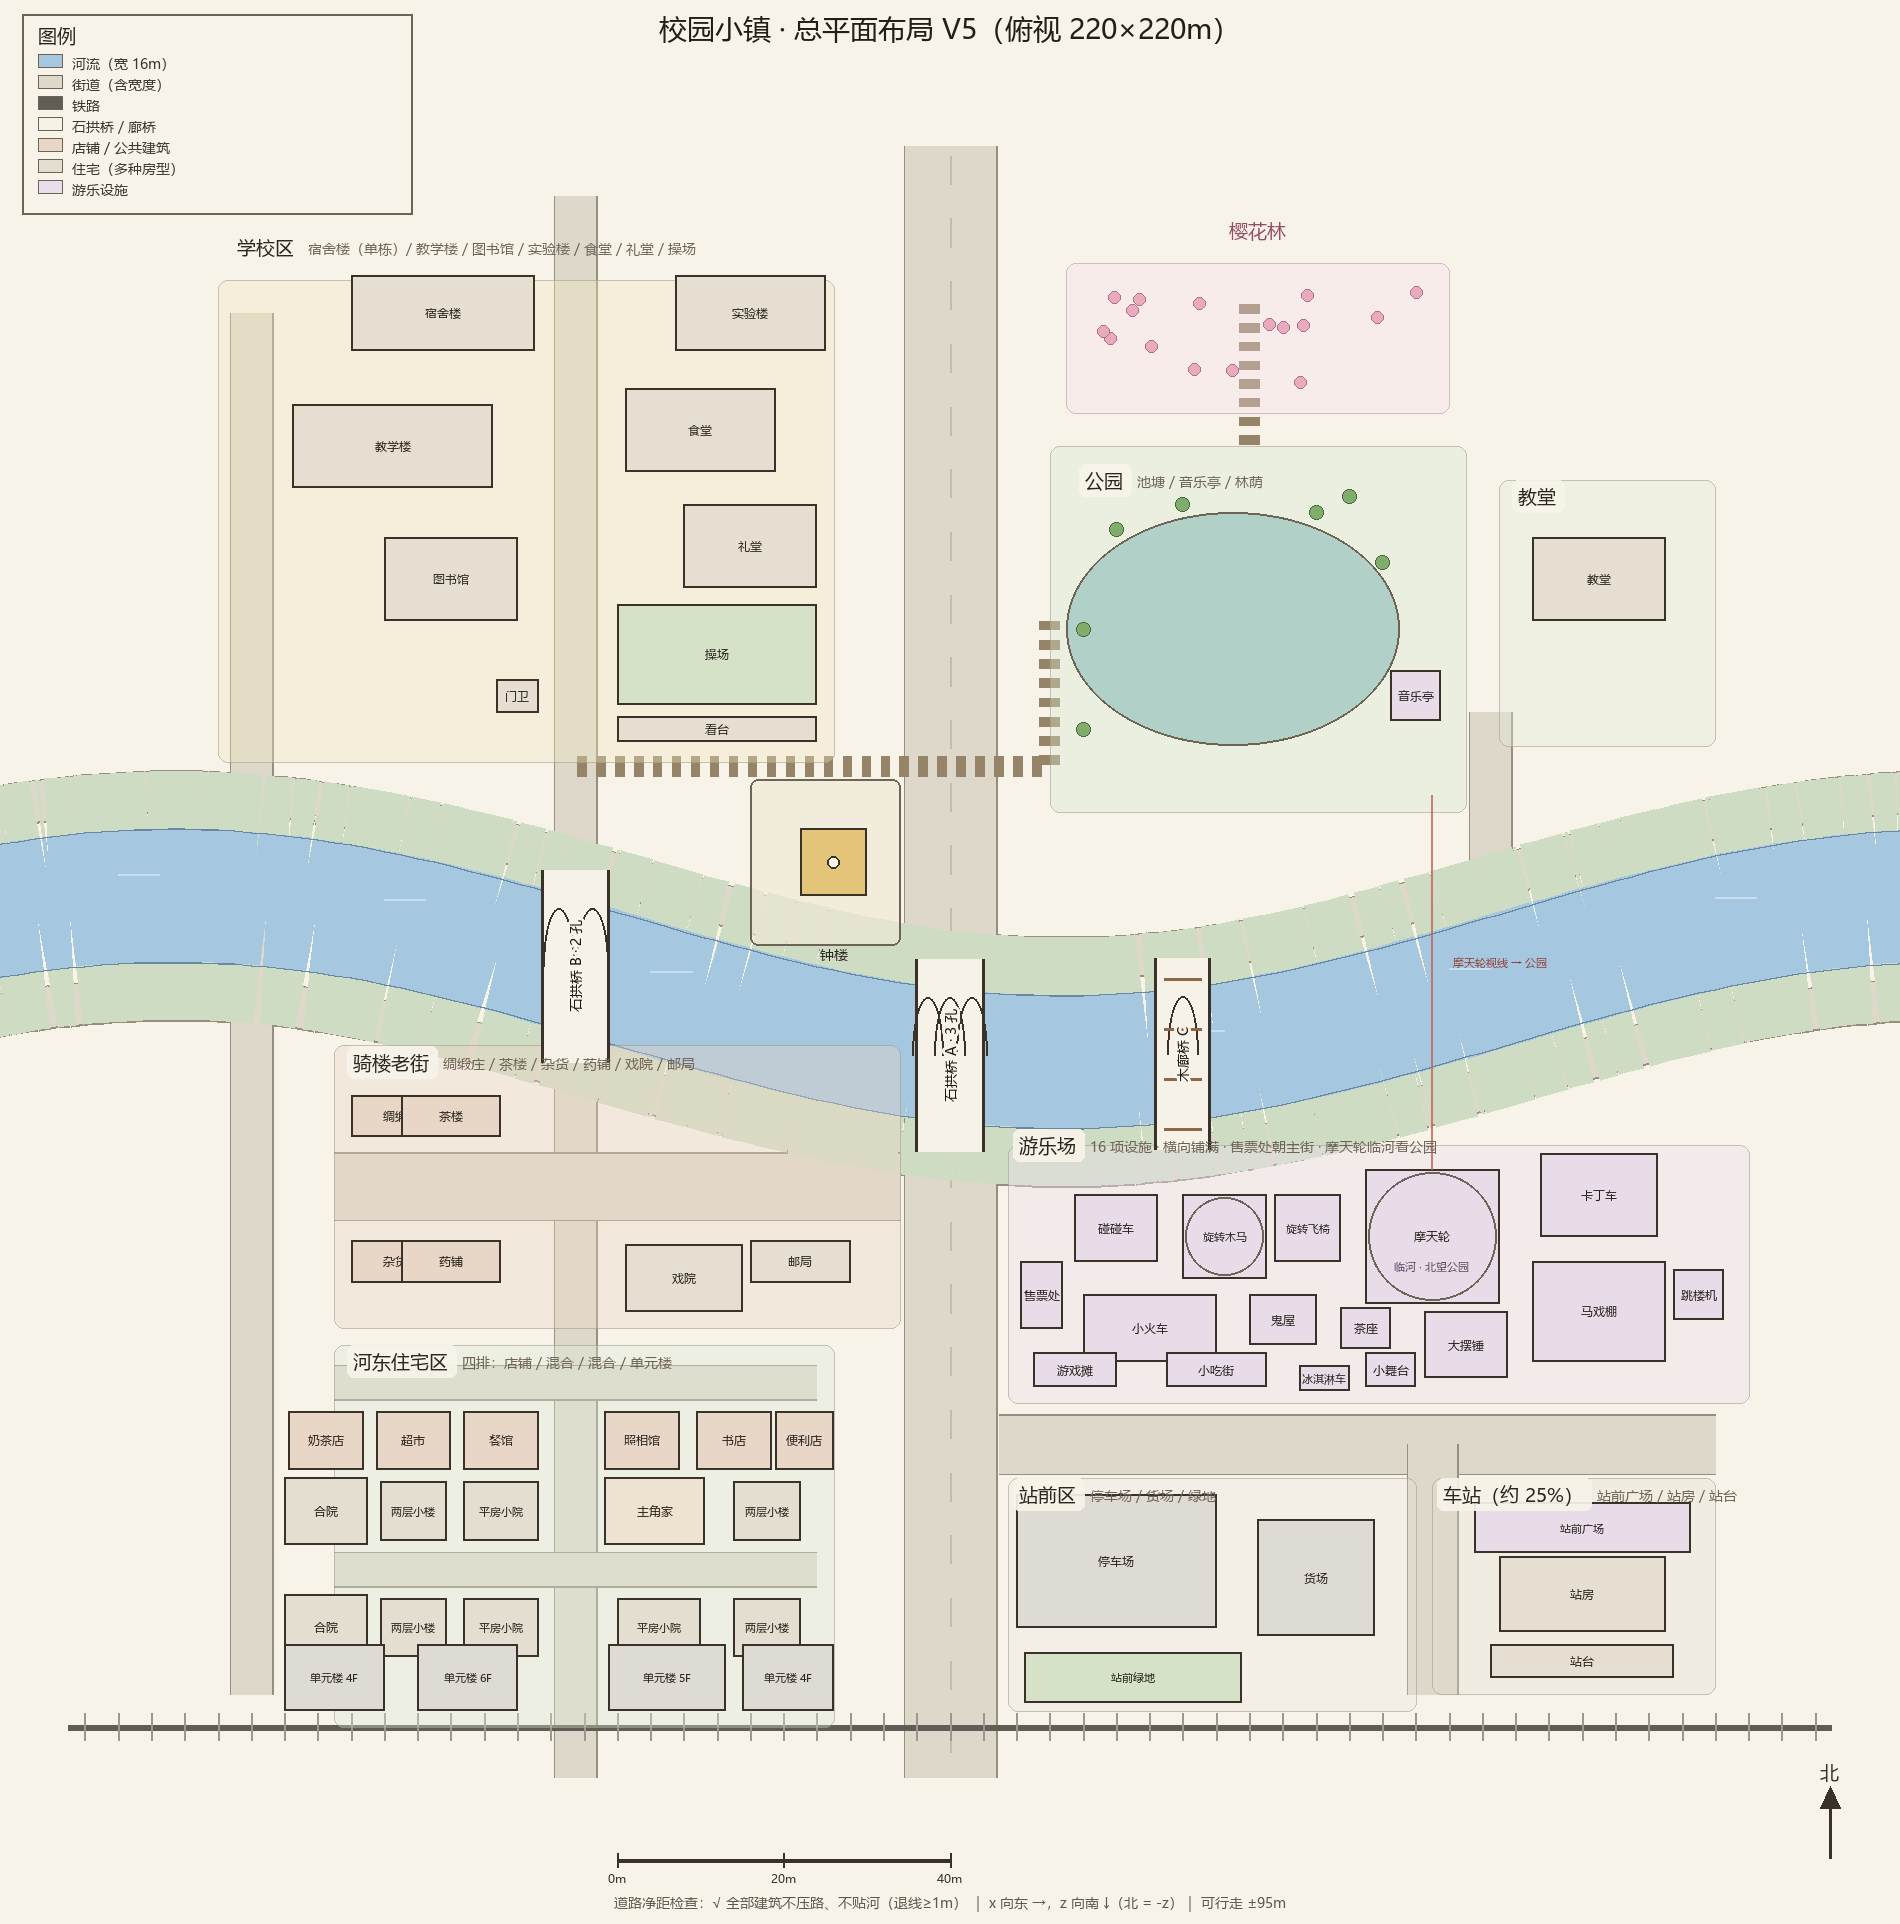
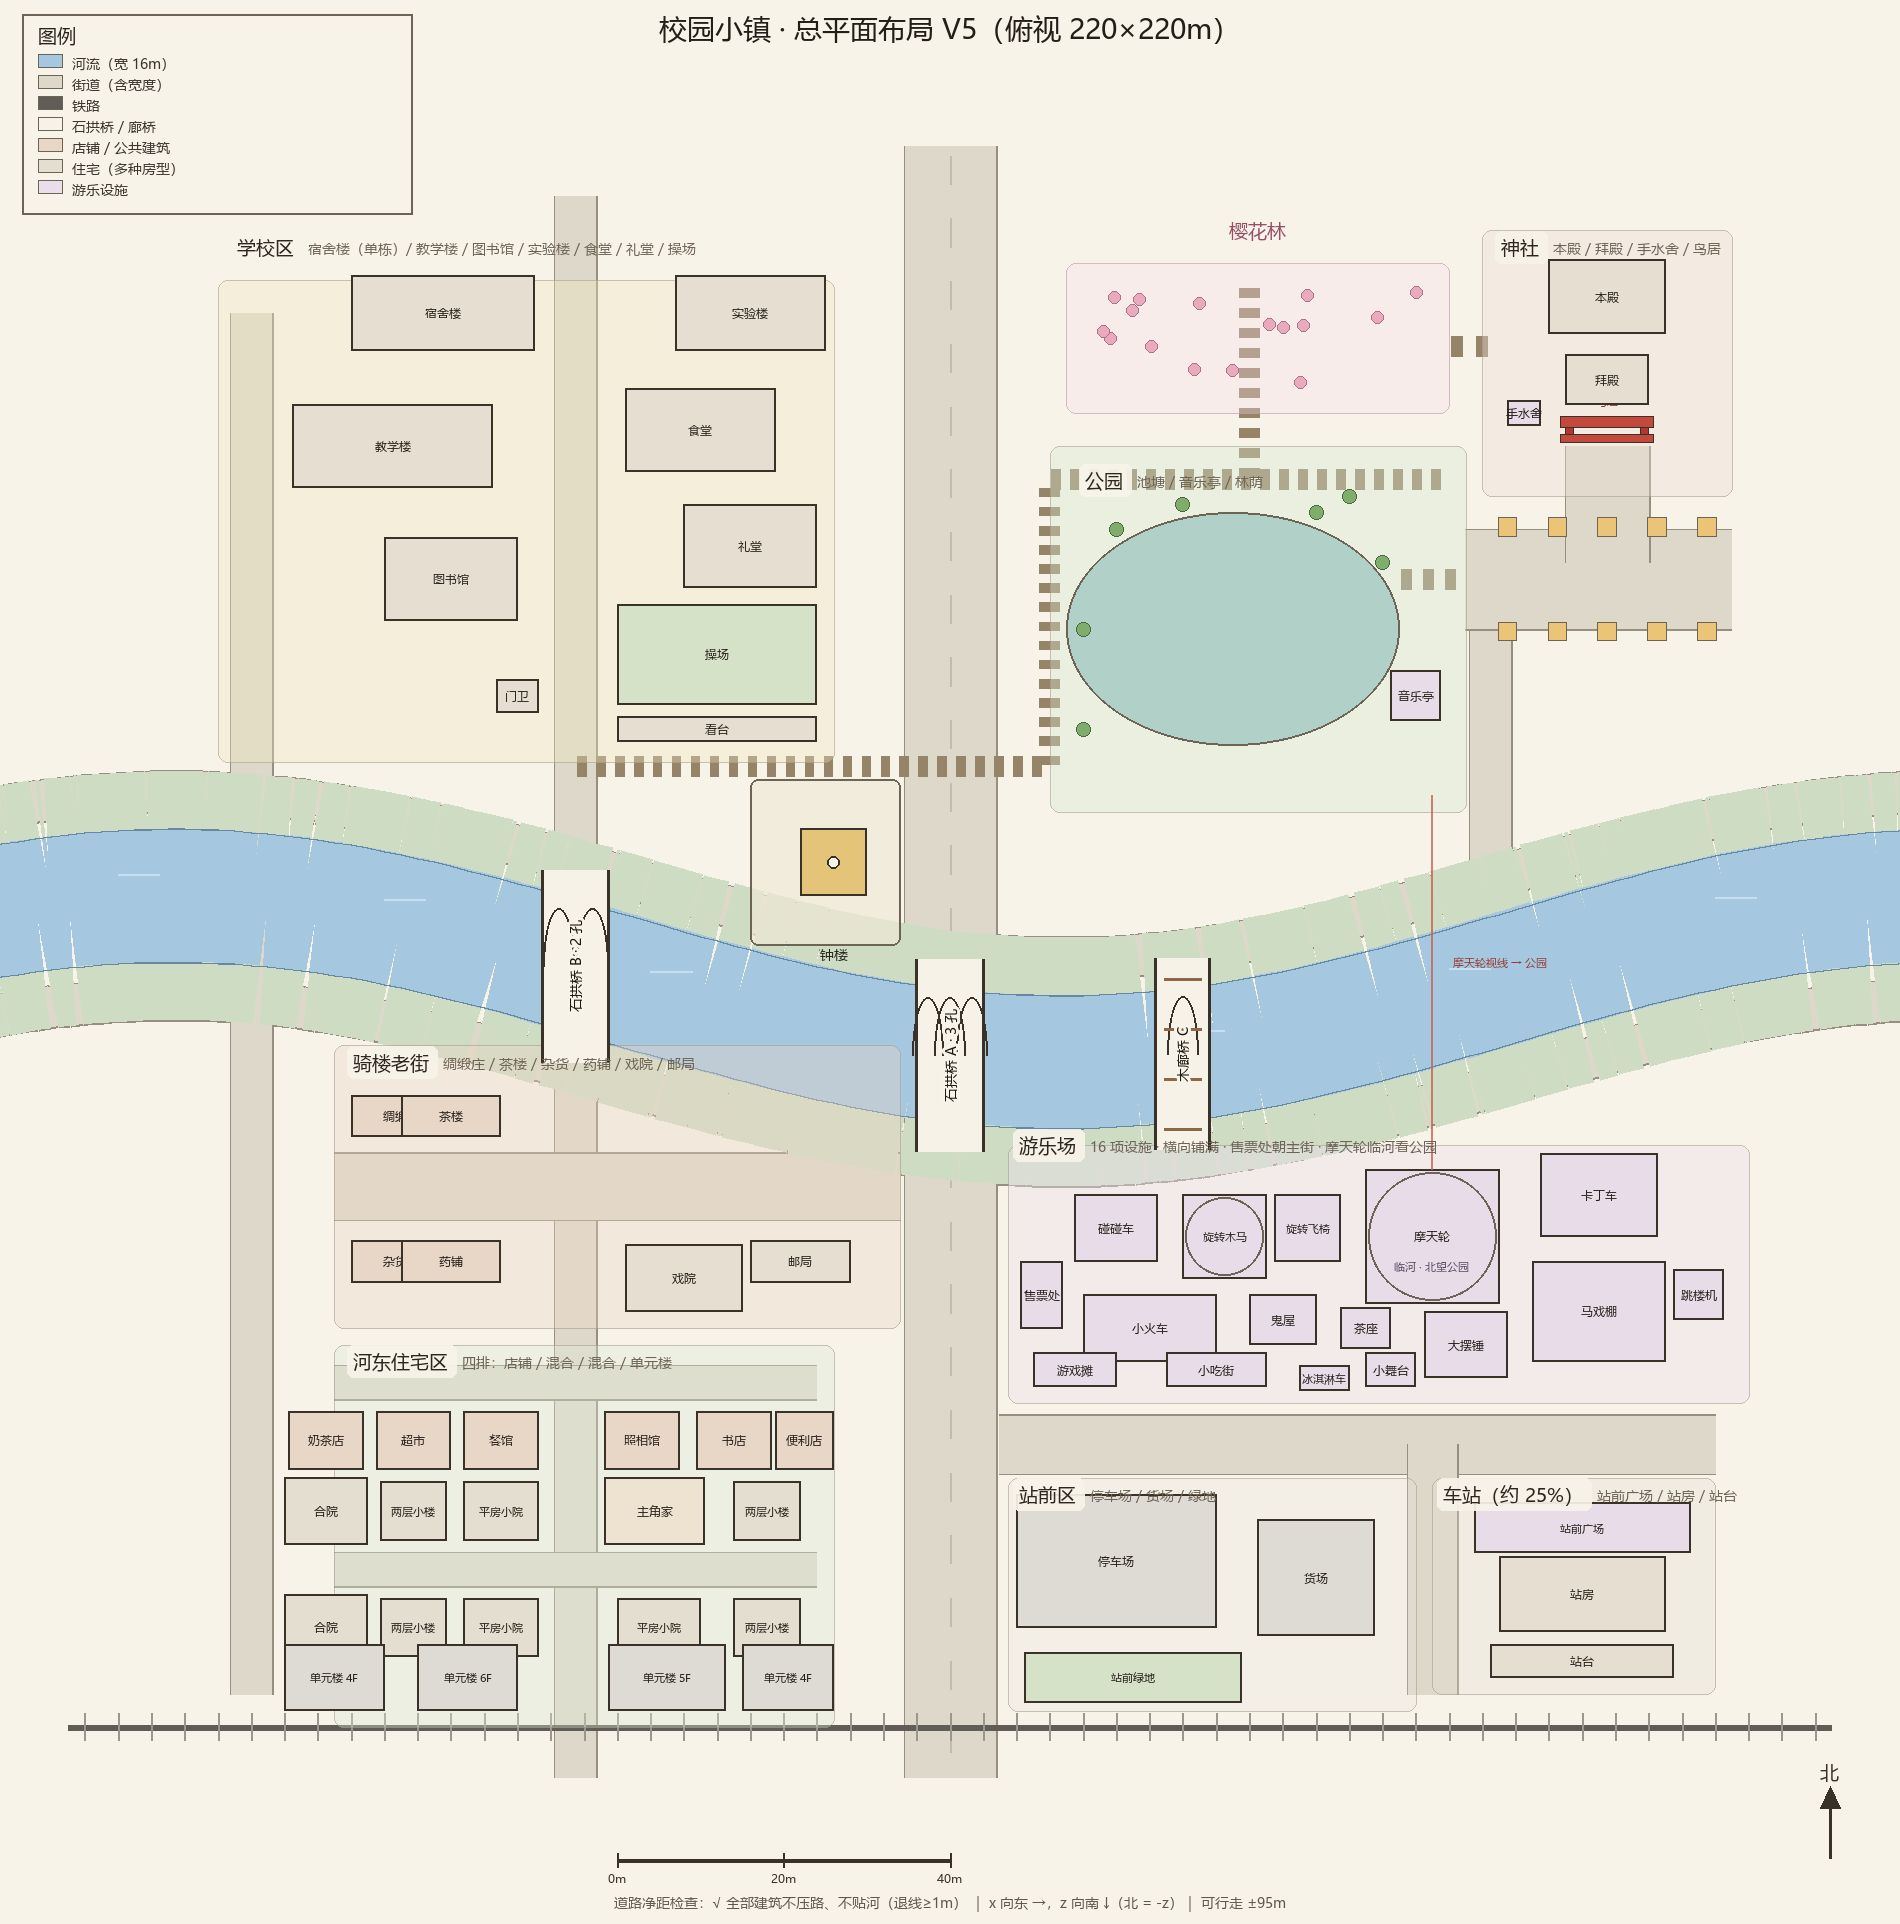
docs(设计): 教堂改日式神社 + 夏日祭参道/石阶 + 公园—神社步道成网
- 教堂替换为神社：本殿/拜殿/手水舍 + 参道口鸟居，位于樱花林右侧
- 神社下方 10m 宽石阶路直下；底部接 12m 宽「夏日祭参道」（z=-46，x 62~94），
  两侧各 5 个摊位，足够办夏日祭
- 公园联络路延长到参道（z -46~-10），形成「河滨路 → 参道 → 石阶 → 拜殿」主通道
- 步道成网：步道 A/B、公园北路、樱花林步道、神社连林道、参道连园道 ——
  公园⇄樱花林⇄神社⇄参道⇄校区全部连通
- 净距校验（建筑↔道路/步道/石阶 ≥1m、建筑↔河道 ≥16m）重跑：√ 全部通过

Changed region(s): [[0.7453, 0.1247, 0.9316, 0.3742], [0.6521, 0.1559, 0.6832, 0.2495], [0.5279, 0.2495, 0.5589, 0.3119]]

diff --git a/docs/18-小镇总平面布局.md b/docs/18-小镇总平面布局.md
@@ -17,12 +17,17 @@
 | 住宅中街 | z=73，x -74~-16 | 4m | 主角家门前 |
 | 车站街 | z=58，x 6~92 | 7m | 主街 → 车站（给游乐场让出约 8m 进深） |
 | 车站路 | x=58，z 58~88 | 6m | 游乐场与车站的分界路 |
-| 公园联络路 | x=65，z -30~-10 | 5m | 公园与教堂之间 |
+| 公园联络路 | x=65，z -46~-10 | 5m | 参道 → 河滨路（神社方向主通道） |
+| **夏日祭参道** | z=-46，x 62~94 | **12m** | 够摆两排摊位、办夏日祭；北接神社石阶，西接公园 |
+| 神社石阶 | x=79，z -62~-48 | 10m | 拜殿 → 参道（石阶路） |
 | 南北岸河滨路 | 沿河每侧 ±12.5m | 5m | 观景 + 连通两岸 |
 | 铁路 | z=92 | — | 含站台（站房 z=76） |
 | 步道 A | z=-23.5，x -45~12 | 3m | **校区 ⇄ 公园**（从中央街东侧直插公园西南） |
 | 步道 B | x=12，z -23.5~-42 | 3m | 公园西缘南北向，接池塘与音乐亭 |
-| 樱花林步道 | x=36，z -62~-80 | 3m | 公园 ⇄ 樱花林 |
+| 公园北路 | z=-58，x 12~60 | 3m | 公园北部东西向，串樱花林步道与神社方向 |
+| 樱花林步道 | x=36，z -58~-82 | 3m | 公园 ⇄ 樱花林 |
+| 神社连林道 | z=-74，x 60~66 | 3m | 樱花林 ⇄ 神社 |
+| 参道连园道 | z=-46，x 54~62 | 3m | 公园（池塘东侧）⇄ 夏日祭参道 |
 
 **校验规则（已写进绘图脚本，每次出图自动跑）**：
 - 每栋建筑到每条道路的净距 ≥ **1.0m**（退线）
@@ -43,8 +48,10 @@
 ### 樱花林（公园北侧，x 14~60，z -84~-66）
 46×18m 的樱花林，16 棵樱花树自由散布；北接园区外缘，南由步道接入公园
 
-### 教堂（东北角，x 66~92）
-红砖教堂（16×10）+ 尖塔
+### 神社（樱花林右侧，x 64~94，z -88~-56）
+- **本殿**（14×9）+ **拜殿**（10×6）+ **手水舍**（4×3）+ 参道口**鸟居**
+- 神社下方是 **石阶路**（10m 宽，z -62~-48），从拜殿前直下到夏日祭参道
+- 与樱花林之间有一条 **神社连林道**（z=-74）
 
 ### 骑楼老街（南岸西段，x -74~-6，z 10~44）
 - 北排（临河）：**绸缎庄、茶楼**
